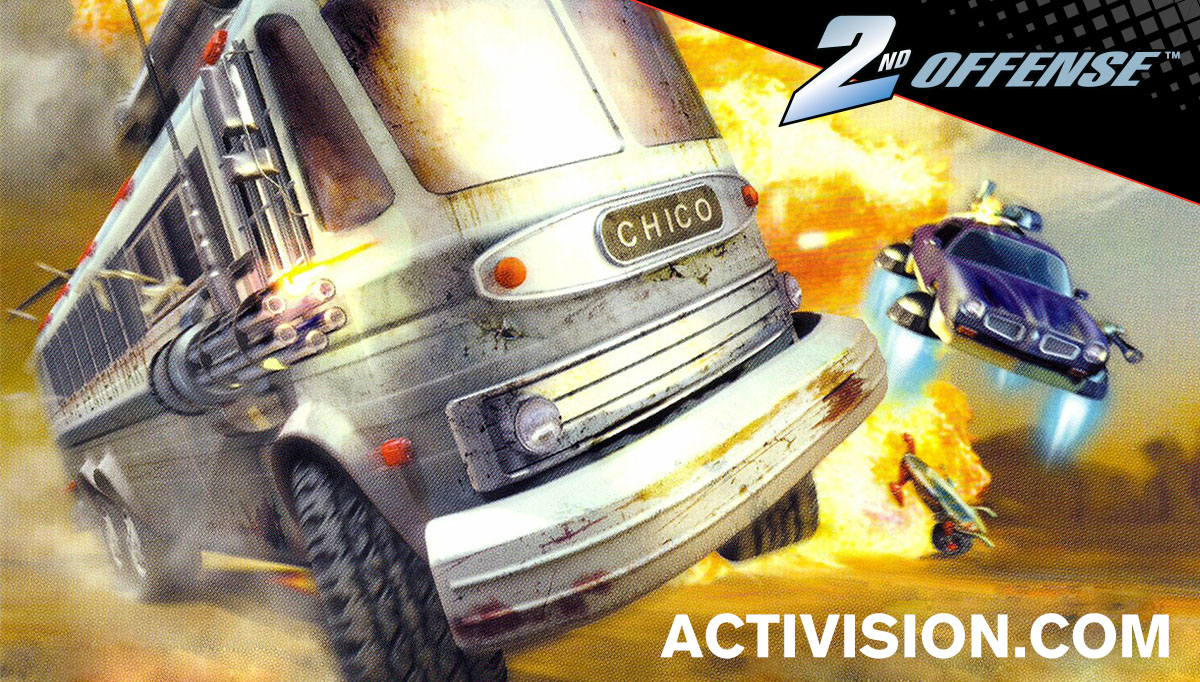
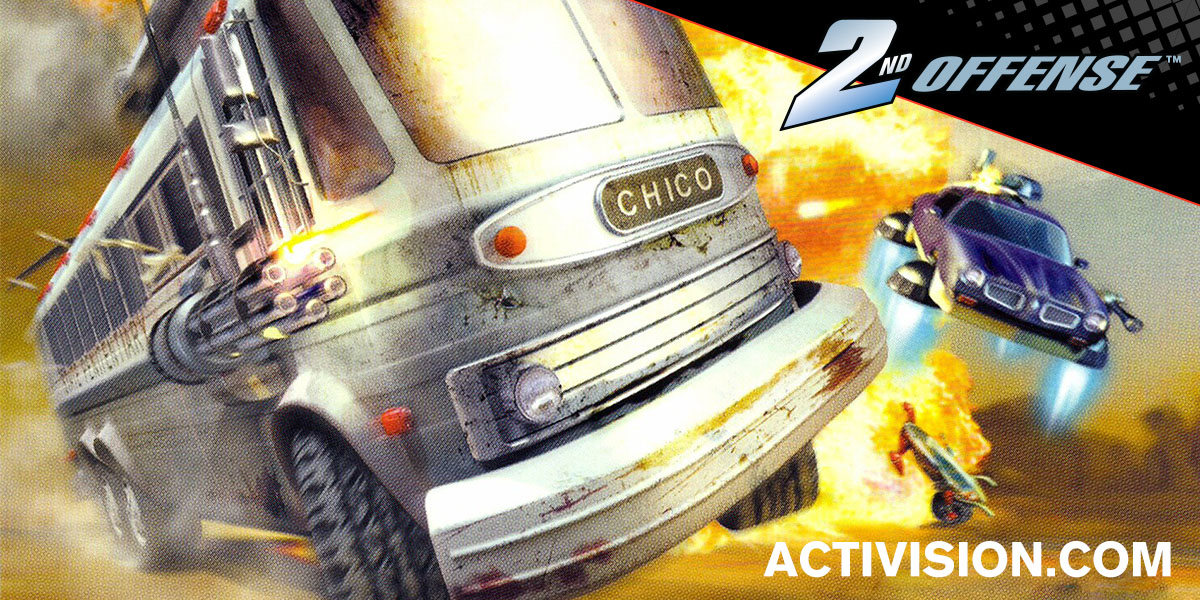
open graph test 4

diff --git a/index.html b/index.html
@@ -7,13 +7,13 @@
         <meta name="author" content="ACTIVISION">
         <meta name="copyright" content="ACTIVISION">
         <meta name="viewport" content="width=device-width, initial-scale=1">
-        <meta name="og:site_name" content="Second Offense">
-        <meta property="og:title" content="Vigilante 8: 2nd Offense | Official Site">
+        <meta name="og:site_name" content="Activision Publishing, Inc.">
+        <meta property="og:title" content="Vigilante 8: Second Offense | Official Site">
         <meta property="og:url" content="second-offense.com">
         <meta property="og:image" content="https://stefanvranjes.github.io/v82o-web/images/common/og-img.jpg">
         <meta property="og:image:width" content="1200">
-        <meta property="og:image:height" content="682">
-        <meta property="og:description" content="The Future of Blowing $#!% Up is Here!">
+        <meta property="og:image:height" content="600">
+        <meta property="og:description" content="The Future of Blowing $#!% Up is Here! Blast your way through 19 fully destructible battle arenas across the U.S. while uncovering hidden and bonus areas, cars, power-ups, and weapons.">
         <meta property="og:type" content="website">
         <title>Vigilante 8: Second Offense | Official Site</title>
 
